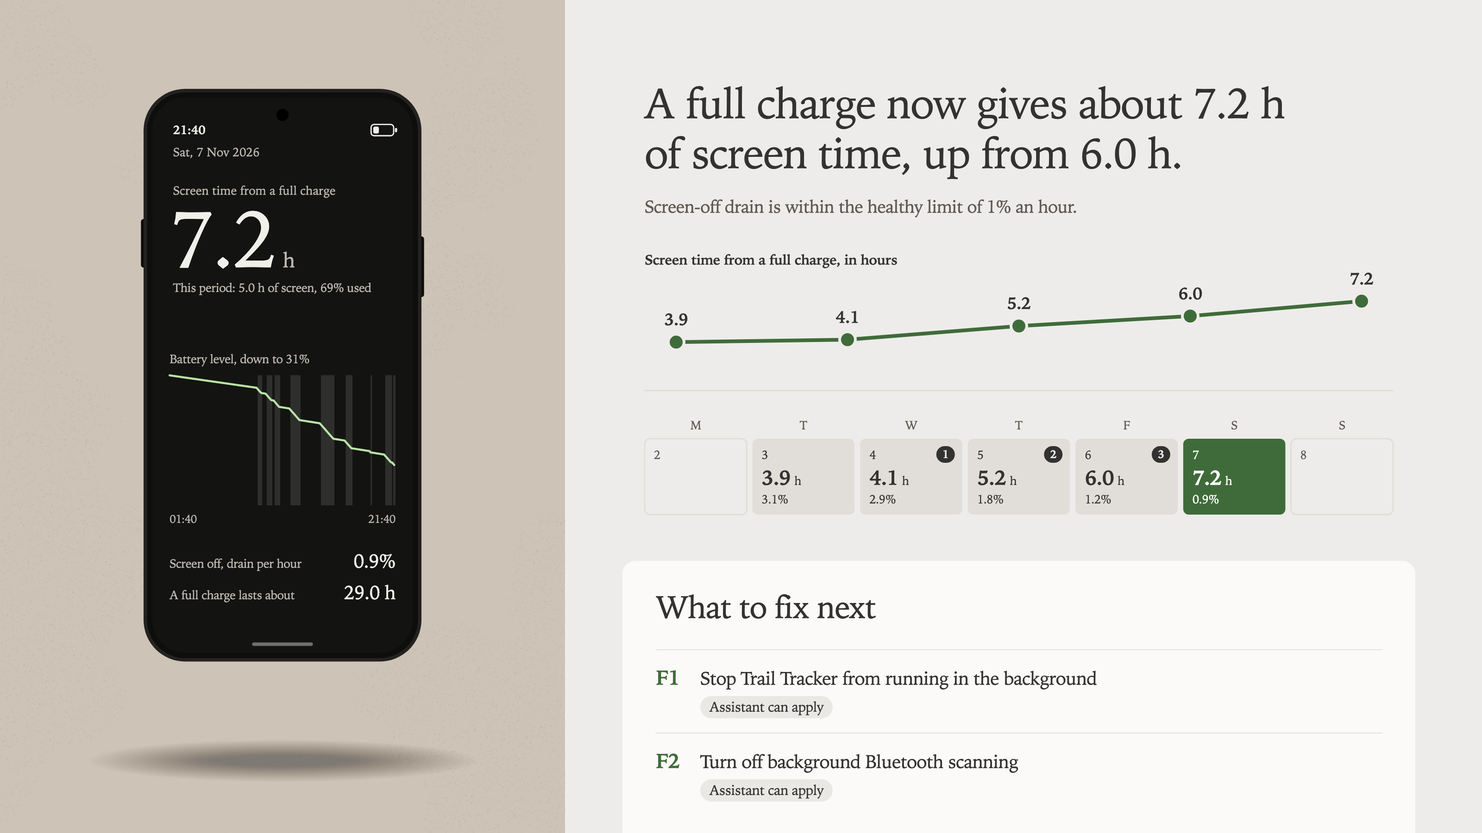
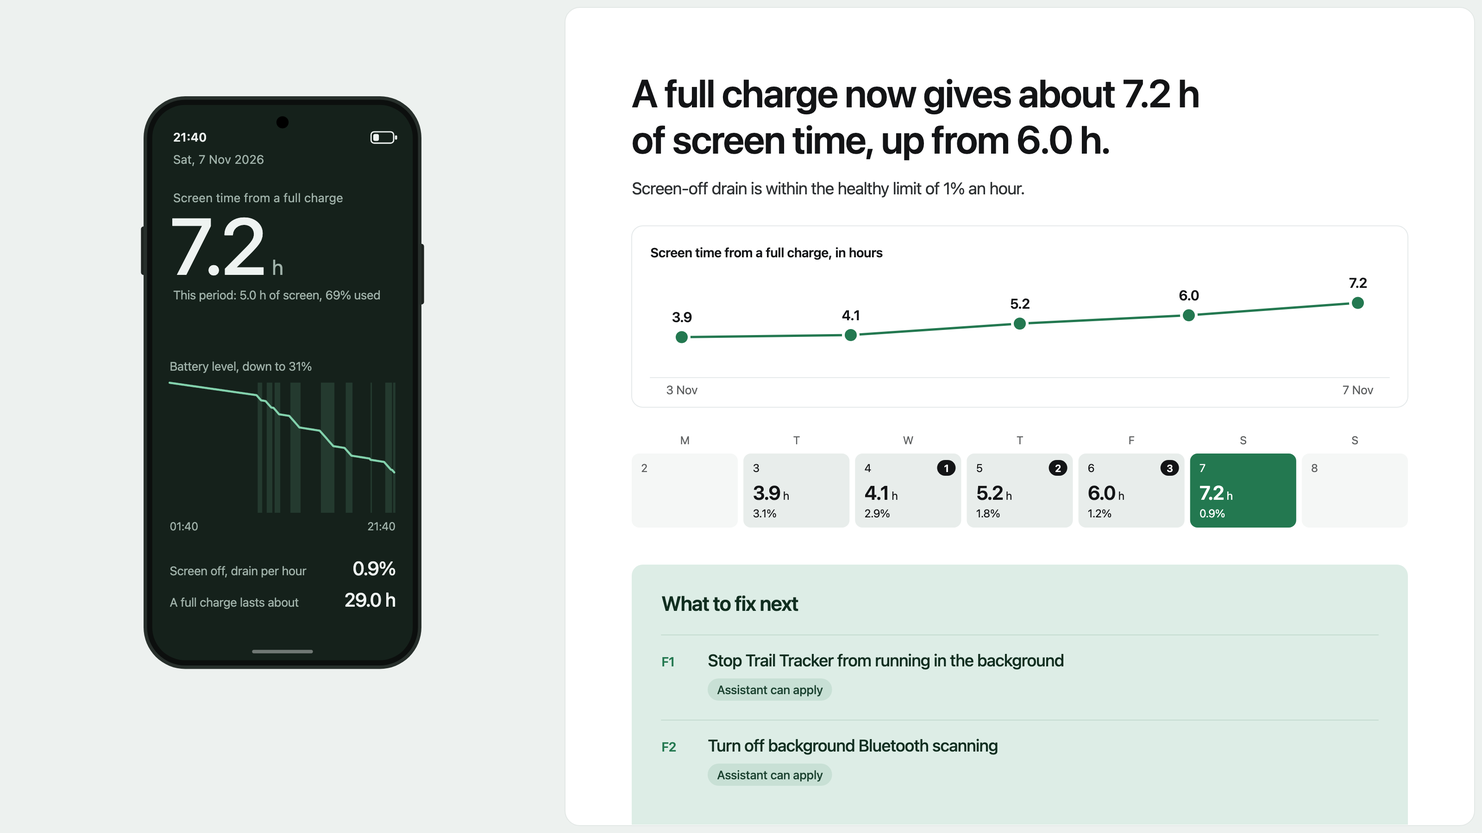
Redesign the report: framed sheet, green accent, dark mode
The phone sits on a tinted frame and the report on a white sheet beside it.
Green is the one data colour; What to fix next is a pale green panel; the
details are split into cards. Dark mode follows the system setting. The phone
drawing takes its colours from the stylesheet. The README image is redrawn to
match.

diff --git a/battery-doctor/assets/report-template.html b/battery-doctor/assets/report-template.html
@@ -6,142 +6,195 @@
 <meta name="color-scheme" content="light dark">
 <title>Battery report</title>
 <style>
+/* the phone sits in a tinted frame, the report on a sheet inset beside it; light and dark */
 :root {
-  --bg: #eeecea; --field: #cdc3b6; --ink: #333231; --muted: #5e5a56; --soft: #e1ded9;
-  --accent: #3f6b3a; --accent-ink: #ffffff; --warn: #8a4b12; --panel: #fbfaf8;
-  --font: "Iowan Old Style", "Palatino Linotype", Palatino, "Book Antiqua", Georgia, serif;
-  --t1: clamp(30px, 2rem + .9vw, 46px); --t2: 18px; --t3: 15px;
-  --pad: clamp(22px, 5vw, 72px);
+  --frame: #edf1ef; --stage: transparent; --stage-muted: #56605b; --sheet: #ffffff; --edge: #e3e8e6;
+  --split-pad: 8px; --split-gap: 0px; --sheet-r: 16px;
+  --ink: #131416; --ink-2: #2d3032; --muted: #5d5f60; --line: #eef0f1; --soft: #f4f6f8;
+  --data: #237850; --data-ink: #ffffff; --accent: #237850; --band: #e7f2ed; --warn: #c4242a; --focus: #237850;
+  --panel: #ddede6; --panel-ink: #112e20; --panel-muted: #415e50; --panel-rule: #c5dcd1; --panel-edge: #ddede6; --panel-id: #237850;
+  --chip: #c8e0d5; --chip-ink: #1a412f; --done: #237850; --done-ink: #ffffff;
+  --card: #ffffff; --card-edge: #e6eaeb; --day: #e8edeb; --day-empty: #f5f7f6; --r: 12px; --day-r: 8px;
+  --tip: #131416; --tip-ink: #ffffff;
+  --font: "IBM Plex Sans", system-ui, -apple-system, "Segoe UI", Roboto, sans-serif;
+  --t1: clamp(28px, 1.2rem + 1.4vw, 42px); --h2: 20px; --t2: 16px; --t3: 14px; --pad: clamp(24px, 4.5vw, 72px);
+  --ph-key: #1e2421; --ph-body: #272f2b; --ph-bezel: #0c0f0e; --ph-screen: #15211b; --ph-ink: #eef3f1; --ph-muted: #a0b2aa;
+  --ph-line: #83d2ad; --ph-span: rgba(131,210,173,.14); --ph-bar: rgba(255,255,255,.4); --ph-cam: #000;
 }
 @media (prefers-color-scheme: dark) {
-  :root { --bg: #1b1a19; --field: #2b2926; --ink: #ecebe9; --muted: #b0aca6; --soft: #2a2927; --accent: #9fcb92; --accent-ink: #1b1a19; --warn: #e5b25c; --panel: #262523; }
+  :root {
+    --frame: #0a0e0f; --stage-muted: #9aa5a3; --sheet: #111618; --edge: #1f2629;
+    --ink: #eef2f1; --ink-2: #c9d1cf; --muted: #9aa5a3; --line: #1f2629; --soft: #182022;
+    --data: #68cd9e; --data-ink: #081911; --accent: #68cd9e; --band: #153727; --warn: #ff7a7f; --focus: #68cd9e;
+    --panel: #28322d; --panel-ink: #f4f7f7; --panel-muted: #b5c0bb; --panel-rule: #37433d; --panel-edge: #28322d; --panel-id: #86d9b2;
+    --chip: #37443e; --chip-ink: #e9efec; --done: #68cd9e; --done-ink: #081911;
+    --card: #161d20; --card-edge: #222b2e; --day: #1c2629; --day-empty: #141b1d;
+    --tip: #eef2f1; --tip-ink: #111618;
+    --ph-body: #2c3a33; --ph-key: #232f29; --ph-screen: #0b130f;
+  }
 }
+.read { border: 1px solid var(--edge); }
+.focus { border: 1px solid var(--panel-edge); }
+.tr { border: 1px solid var(--card-edge); }
+.fix .id { color: var(--panel-id); }
+.focus summary:hover { color: var(--panel-ink); }
+.focus :focus-visible { outline-color: var(--panel-ink); }
+
+/* details as cards: two wide cards, then pairs */
+.more-in { grid-template-columns: repeat(2, minmax(0, 1fr)); gap: 16px; align-items: stretch; }
+.more-in > section { background: var(--card); border: 1px solid var(--card-edge); border-radius: var(--r); padding: 20px 20px 12px; min-width: 0; }
+.more-in > section:nth-child(-n+2), .more-in > section:last-child:nth-child(odd) { grid-column: 1 / -1; }
+.more-in > section > h3 { margin-bottom: 10px; }
+.more-in .rows li:first-child { border-top: 0; }
+.more-in .rows li { font-size: 15px; }
+@media (max-width: 700px) {
+  .more-in { grid-template-columns: minmax(0, 1fr); }
+}
+
+/* shared structure; every value comes from the variant's tokens */
 * { box-sizing: border-box; }
-html { -webkit-text-size-adjust: 100%; }
-body { margin: 0; background: var(--bg); color: var(--ink); font: 400 var(--t2)/1.6 var(--font); font-variant-numeric: tabular-nums; overflow-x: hidden; }
-h1, h2, p, ul, ol, dl, dd { margin: 0; padding: 0; }
+html { -webkit-text-size-adjust: 100%; background: var(--frame); }
+body { margin: 0; background: var(--frame); color: var(--ink); font: 400 var(--t2)/1.55 var(--font); font-variant-numeric: tabular-nums; overflow-x: hidden; }
+h1, h2, h3, p, ul, ol, dl, dd { margin: 0; padding: 0; }
 ul, ol { list-style: none; }
 button { font: inherit; color: inherit; background: none; border: 0; padding: 0; cursor: pointer; text-align: inherit; }
-:focus-visible { outline: 3px solid var(--accent); outline-offset: 3px; }
+:focus-visible { outline: 2px solid var(--focus, var(--ink)); outline-offset: 3px; border-radius: 4px; }
 small, .small { font-size: var(--t3); }
 .muted { color: var(--muted); }
 
-.split { display: grid; grid-template-columns: minmax(0, 5fr) minmax(0, 6fr); }
-.stage { background: var(--field); min-width: 0; }
-.stage-in { position: sticky; top: 0; height: 100svh; min-height: 560px; max-height: 960px; display: flex; flex-direction: column; align-items: center; justify-content: center; gap: 18px; padding: 24px 16px; }
-.phone { height: min(calc(100svh - 110px), 760px); min-height: 480px; width: auto; max-width: 100%; display: block; overflow: visible; }
-.phone-name { font-size: var(--t3); text-align: center; }
-.read { padding: 0 var(--pad); min-width: 0; }
-.read-in { max-width: 600px; }
-.hero { padding: clamp(56px, 12svh, 120px) 0 0; }
-h1 { font-weight: 500; font-size: var(--t1); line-height: 1.12; letter-spacing: -.02em; max-width: 14em; }
-.line { margin-top: 28px; color: var(--muted); max-width: 30em; }
-.notice { margin-top: 20px; color: var(--warn); }
-.sec { margin-top: clamp(56px, 7vw, 96px); }
-h2 { font-weight: 500; font-size: var(--t1); line-height: 1.12; letter-spacing: -.02em; }
-.lead { margin-top: 16px; }
+/* the split */
+.split { display: grid; grid-template-columns: minmax(340px, 5fr) minmax(0, 7fr); min-height: 100svh; gap: var(--split-gap, 0); padding: var(--split-pad, 0); }
+.stage { background: var(--stage); min-width: 0; border-radius: var(--stage-r, 0); }
+.stage-in { position: sticky; top: var(--split-pad, 0px); height: calc(100svh - 2 * var(--split-pad, 0px)); min-height: 560px; max-height: 980px; display: flex; flex-direction: column; align-items: center; justify-content: center; gap: 20px; padding: 32px 24px; }
+.phone { height: min(calc(100svh - 150px), 720px); min-height: 460px; width: auto; max-width: 100%; display: block; overflow: visible; }
+.phone-name { font-size: var(--t3); color: var(--stage-muted, var(--muted)); text-align: center; }
+.read { background: var(--sheet); min-width: 0; padding: 0 var(--pad); border-radius: var(--sheet-r, 0); box-shadow: var(--sheet-edge, none); }
+.read-in { max-width: 760px; margin: 0 auto 0 0; }
 
-/* calendar */
-.tl { margin-top: 28px; position: relative; }
-.tr { margin-bottom: 32px; }
+/* the answer */
+.hero { padding: clamp(48px, 9svh, 96px) 0 0; }
+h1 { font-weight: var(--h1-w, 600); font-size: var(--t1); line-height: 1.08; letter-spacing: var(--h1-track, -.025em); max-width: none; text-wrap: pretty; }
+.line { margin-top: 20px; color: var(--ink-2, var(--muted)); max-width: 36em; }
+.notice { margin-top: 16px; color: var(--warn); font-size: var(--t3); }
+.sec { margin-top: clamp(56px, 7vw, 88px); }
+h2 { font-weight: 600; font-size: var(--h2); line-height: 1.25; letter-spacing: -.01em; }
+.lead { margin-top: 12px; color: var(--ink-2, var(--ink)); }
+
+/* fixes */
+.focus { background: var(--panel); color: var(--panel-ink, var(--ink)); border-radius: var(--r); padding: clamp(24px, 3.4vw, 40px); }
+.focus .lead { color: var(--panel-muted, var(--muted)); }
+.fixlist { margin-top: 20px; display: grid; }
+.fix { display: grid; grid-template-columns: 40px minmax(0, 1fr); gap: 4px 12px; padding: 18px 0; border-top: 1px solid var(--panel-rule, var(--line)); }
+.fix .id { font: 600 var(--t3)/1.9 var(--font-num, var(--font)); color: var(--panel-muted, var(--muted)); }
+.fix .t { font-weight: 500; font-size: calc(var(--t2) + 2px); line-height: 1.4; overflow-wrap: anywhere; }
+.fix .cost { grid-column: 2; font-size: var(--t3); color: var(--panel-muted, var(--muted)); }
+.state { display: table; margin: 8px 0 2px; font-size: 13px; font-weight: 500; line-height: 24px; padding: 0 10px; border-radius: var(--pill-r, 999px); background: var(--chip); color: var(--chip-ink, inherit); white-space: nowrap; }
+.state.done { background: var(--done); color: var(--done-ink); }
+.fix details { grid-column: 2; font-size: var(--t3); }
+.fix summary, .more > summary { cursor: pointer; color: var(--panel-muted, var(--muted)); text-decoration: underline; text-underline-offset: 4px; }
+.fix summary:hover { color: var(--panel-ink, var(--ink)); }
+.fix ol { list-style: decimal; padding-left: 20px; margin-top: 8px; display: grid; gap: 4px; }
+.empty { margin-top: 20px; color: var(--muted); }
+.also { margin-top: 24px; display: grid; gap: 12px; font-size: var(--t3); color: var(--panel-muted, var(--muted)); }
+.also b { display: block; font-weight: 600; color: var(--panel-ink, var(--ink)); }
+
+/* trend curves and calendar */
+.tl { margin-top: 24px; position: relative; }
+.tr { margin-bottom: 28px; padding: 20px 20px 8px; background: var(--card); border-radius: var(--r); box-shadow: var(--card-edge, none); }
 .tr svg { display: block; width: 100%; height: auto; overflow: visible; }
-.tr text { font-family: var(--font); fill: var(--muted); font-size: 15px; }
-.tr text.v { fill: var(--ink); font-size: 18px; font-weight: 600; }
-.tr text.z { fill: var(--accent); }
-.tr text.h { fill: var(--ink); font-weight: 600; }
+.tr text { font-family: var(--font); fill: var(--muted); font-size: 13px; }
+.tr text.v { fill: var(--ink); font: 600 15px var(--font-num, var(--font)); }
+.tr text.z { fill: var(--muted); }
+.tr text.h { fill: var(--ink); font-weight: 600; font-size: 14px; }
+.tr polyline { stroke: var(--data) !important; stroke-width: 2.5px !important; }
+.tr circle[fill="var(--accent)"] { fill: var(--data); }
+.tr circle[stroke="var(--accent)"] { stroke: var(--data); }
+.tr line[stroke="var(--accent)"] { stroke: var(--data); stroke-dasharray: 4 4; }
+.tr rect[fill="var(--soft)"] { fill: var(--band); }
 .cal + .cal { margin-top: 28px; }
 .cal-m { font-weight: 600; margin-bottom: 10px; }
 .cal-g { display: grid; grid-template-columns: repeat(7, minmax(0, 1fr)); gap: 4px; }
-.cal-g .wd { font-size: 13px; color: var(--muted); text-align: center; padding-bottom: 2px; }
-.day { position: relative; width: 100%; min-height: 78px; padding: 6px 8px; border-radius: 6px; display: flex; flex-direction: column; justify-content: space-between; font-size: 13px; line-height: 1.2; color: var(--muted); box-shadow: inset 0 0 0 1px var(--soft); }
-.day.has { background: var(--soft); color: var(--ink); }
-.day.ok { background: var(--accent); color: var(--accent-ink); }
-.day.rough { background: none; box-shadow: none; outline: 1.5px dashed var(--muted); outline-offset: -2px; color: var(--ink); }
-.day.cur { box-shadow: inset 0 0 0 3px var(--ink); }
-.day .dv { font-size: 20px; font-weight: 600; }
-.day .dv small { font-size: 13px; font-weight: 400; }
-.day .di { font-size: 13px; }
-.day .dm { position: absolute; top: 5px; right: 5px; font-size: 11px; font-weight: 600; line-height: 16px; padding: 0 5px; border-radius: 999px; background: var(--ink); color: var(--bg); }
-.day.ok .dm { background: var(--accent-ink); color: var(--accent); }
-.tip { position: absolute; z-index: 3; pointer-events: none; background: var(--ink); color: var(--bg); font-size: var(--t3); line-height: 1.35; padding: 12px 14px; border-radius: 8px; width: max-content; max-width: min(320px, 90vw); transform: translate(-50%, -100%); box-shadow: 0 8px 24px -8px rgba(0,0,0,.45); }
-.tip .tt { font-weight: 600; font-size: 16px; }
+.cal-g .wd { font-size: 12px; color: var(--muted); text-align: center; padding-bottom: 2px; }
+.day { position: relative; width: 100%; min-height: 76px; padding: 6px 8px; border-radius: var(--day-r, 6px); display: flex; flex-direction: column; justify-content: space-between; font-size: 12px; line-height: 1.2; color: var(--muted); background: var(--day-empty); transition: transform .12s ease; }
+.day.has { background: var(--day); color: var(--ink); }
+.day.has:hover { transform: translateY(-1px); }
+.day.ok { background: var(--data); color: var(--data-ink); }
+.day.rough { background: transparent; outline: 1.5px dashed var(--muted); outline-offset: -2px; color: var(--ink); }
+.day.cur { outline: 2px solid var(--ink); outline-offset: 2px; }
+.day .dv { font: 600 19px/1.1 var(--font-num, var(--font)); }
+.day .dv small { font-size: 12px; font-weight: 400; }
+.day .di { font-size: 12px; }
+.day .dm { position: absolute; top: 5px; right: 5px; font-size: 11px; font-weight: 600; line-height: 16px; padding: 0 5px; border-radius: 999px; background: var(--ink); color: var(--sheet); }
+.day.ok .dm { background: var(--data-ink); color: var(--data); }
+.tip { position: absolute; z-index: 3; pointer-events: none; background: var(--tip, var(--ink)); color: var(--tip-ink, var(--sheet)); font-size: 13px; line-height: 1.35; padding: 10px 12px; border-radius: 8px; width: max-content; max-width: min(320px, 90vw); transform: translate(-50%, -100%); box-shadow: 0 6px 20px -8px rgba(0,0,0,.4); }
+.tip .tt { font-weight: 600; font-size: 14px; }
 .tip .tt span { font-weight: 400; opacity: .7; margin-left: 8px; }
-.tip dl { margin-top: 8px; display: grid; grid-template-columns: auto auto; gap: 4px 20px; }
+.tip dl { margin-top: 6px; display: grid; grid-template-columns: auto auto; gap: 3px 20px; }
 .tip dt { opacity: .7; white-space: nowrap; }
-.tip dd { text-align: right; white-space: nowrap; font-weight: 600; font-variant-numeric: tabular-nums; }
-.tip .tn { margin-top: 8px; padding-top: 8px; border-top: 1px solid color-mix(in srgb, var(--bg) 25%, transparent); font-size: 13px; opacity: .85; }
+.tip dd { text-align: right; white-space: nowrap; font-weight: 600; }
+.tip .tn { margin-top: 6px; padding-top: 6px; border-top: 1px solid color-mix(in srgb, currentColor 20%, transparent); font-size: 12px; opacity: .85; }
 .tip .tn + .tn { margin-top: 2px; padding-top: 0; border-top: 0; }
 .tip[hidden] { display: none; }
-.notes { margin-top: 18px; display: grid; gap: 4px; font-size: var(--t3); color: var(--muted); }
+.notes { margin-top: 16px; display: grid; gap: 4px; font-size: var(--t3); color: var(--muted); }
 .notes b { font-weight: 600; color: var(--ink); margin-right: 8px; }
 
-/* fixes */
-.fixlist { margin-top: 28px; display: grid; gap: 22px; }
-.fix { display: grid; grid-template-columns: 34px minmax(0, 1fr); gap: 2px 12px; }
-.fix .id { font-weight: 600; }
-.fix .t { font-weight: 600; overflow-wrap: anywhere; }
-.fix .cost { grid-column: 2; font-size: var(--t3); color: var(--muted); }
-.state { display: inline-block; font-size: var(--t3); font-weight: 400; padding: 0 10px; margin-left: 10px; background: var(--soft); border-radius: 999px; white-space: nowrap; }
-.state.done { background: var(--accent); color: var(--accent-ink); }
-.fix details { grid-column: 2; font-size: var(--t3); }
-.fix summary, .more > summary { cursor: pointer; color: var(--muted); text-decoration: underline; text-underline-offset: 4px; }
-.fix ol { list-style: decimal; padding-left: 20px; margin-top: 6px; }
-.empty { margin-top: 24px; color: var(--muted); }
-/* the fix section is the one block that asks the reader to act: it takes the phone's dark screen */
-.focus { background: var(--panel); color: var(--ink); border-radius: 14px; padding: clamp(28px, 4vw, 48px); margin-left: calc(-1 * clamp(0px, 2vw, 24px)); margin-right: calc(-1 * clamp(0px, 2vw, 24px)); }
-.focus .lead { color: var(--muted); }
-.also { margin-top: 24px; display: grid; gap: 12px; font-size: var(--t3); color: var(--muted); }
-.also b { display: block; font-weight: 600; color: var(--ink); }
-.focus .fixlist { gap: 0; margin-top: 20px; }
-.focus .fix { padding: 20px 0; border-top: 1px solid color-mix(in srgb, var(--ink) 12%, transparent); grid-template-columns: 44px minmax(0, 1fr); }
-.focus .fix .id { color: var(--accent); font-size: 22px; line-height: 1.3; }
-.focus .fix .t { font-size: 20px; line-height: 1.35; font-weight: 500; }
-.focus .fix .cost, .focus .fix summary, .focus .empty { color: var(--muted); }
-.focus .state { display: table; margin: 8px 0 4px; background: color-mix(in srgb, var(--ink) 9%, transparent); color: var(--ink); }
-.focus .state.done { background: var(--accent); color: var(--accent-ink); }
-
 /* details */
-.more { margin-top: clamp(64px, 8vw, 110px); margin-bottom: 90px; }
+.more { margin-top: clamp(56px, 7vw, 88px); margin-bottom: 80px; }
+.more > summary { font-size: var(--h2); font-weight: 600; color: var(--ink); text-decoration: none; list-style: none; display: flex; align-items: center; gap: 10px; }
+.more > summary::-webkit-details-marker { display: none; }
+.more > summary::after { content: ""; width: 8px; height: 8px; border-right: 2px solid var(--muted); border-bottom: 2px solid var(--muted); transform: rotate(45deg) translate(-2px, -2px); transition: transform .15s ease; }
+.more[open] > summary::after { transform: rotate(225deg) translate(-2px, -2px); }
 .showall { margin-top: 10px; color: var(--muted); font-size: var(--t3); text-decoration: underline; text-underline-offset: 4px; }
-.more > summary { font-size: var(--t2); }
-.more-in { margin-top: 40px; display: grid; gap: 64px; }
-.more h3 { font: 600 var(--t2)/1.3 var(--font); margin: 0 0 12px; }
-.more .sub { color: var(--muted); font-size: var(--t3); margin-bottom: 12px; }
-.rows li { display: grid; grid-template-columns: minmax(0, 1fr) auto; gap: 2px 16px; padding: 5px 0; }
+.showall:hover { color: var(--ink); }
+.more-in { margin-top: 24px; display: grid; gap: 40px; }
+.more h3 { font: 600 var(--t2)/1.3 var(--font); margin: 0 0 8px; }
+.more .sub { color: var(--muted); font-size: var(--t3); margin-bottom: 10px; }
+.rows li { display: grid; grid-template-columns: minmax(0, 1fr) auto; gap: 2px 16px; padding: 9px 0; border-top: 1px solid var(--line); }
 .rows .n { overflow-wrap: anywhere; }
-.rows .f { white-space: nowrap; }
-.rows .f small { color: var(--muted); margin-left: 8px; }
+.rows .f { white-space: nowrap; text-align: right; font-family: var(--font-num, var(--font)); }
+.rows .f small { color: var(--muted); margin-left: 8px; font-family: var(--font); }
 .rows .gone { text-decoration: line-through; color: var(--muted); }
 .rows .sm { grid-column: 1 / -1; font-size: var(--t3); color: var(--muted); }
 .pick li { padding: 0; }
-.pick button, .pick .cur { display: grid; grid-template-columns: minmax(0, 1fr) auto auto; gap: 16px; width: 100%; padding: 8px 0; }
-.pick .cur { color: var(--accent); font-weight: 600; }
-.pick button:hover { text-decoration: underline; text-underline-offset: 4px; }
+.pick button, .pick .cur { display: grid; grid-template-columns: minmax(0, 1fr) auto auto; gap: 20px; width: 100%; padding: 9px 0; }
+.pick .cur { color: var(--ink); font-weight: 600; }
+.pick .cur > :first-child::before { content: ""; display: inline-block; width: 8px; height: 8px; border-radius: 50%; background: var(--data); margin-right: 8px; vertical-align: 1px; }
+.pick button { color: var(--muted); }
+.pick button:hover { color: var(--ink); }
 .lv { position: relative; }
 .lv svg { display: block; width: 100%; height: auto; }
-.lv text { font: 400 14px var(--font); fill: var(--muted); }
+.lv text { font: 400 12px var(--font); fill: var(--muted); }
+.lv polyline { stroke: var(--data); }
+.lv circle { fill: var(--data); }
 
-/* phone */
-.phone text { font-family: var(--font); fill: #f1efe9; }
-.phone .m { fill: #bdb9b0; }
-.phone .ser { font-weight: 500; letter-spacing: -.02em; }
+/* the phone */
+.phone text { font-family: var(--font); fill: var(--ph-ink); }
+.phone .m { fill: var(--ph-muted); }
+.phone .ser { font-family: var(--font-num, var(--font)); font-weight: var(--ph-big-w, 500); letter-spacing: -.03em; }
+
 @media (prefers-reduced-motion: no-preference) {
-  .read-in > .hero > * { animation: rise .8s cubic-bezier(.2,.7,.2,1); }
-  @keyframes rise { from { transform: translateY(14px); } }
+  .read-in > .hero > * { animation: rise .7s cubic-bezier(.2,.7,.2,1) both; }
+  .read-in > .hero > :nth-child(2) { animation-delay: .07s; }
+  .stage .phone { animation: fade .8s ease both; }
+  @keyframes rise { from { opacity: 0; transform: translateY(14px); } }
+  @keyframes fade { from { opacity: 0; transform: translateY(8px); } }
 }
 @media (max-width: 900px) {
-  .split { grid-template-columns: minmax(0, 1fr); }
+  .split { grid-template-columns: minmax(0, 1fr); padding: 0; gap: 0; }
+  .stage { border-radius: 0; }
   .stage-in { position: static; height: auto; min-height: 0; max-height: none; padding: 28px 16px 32px; }
-  .phone { height: auto; min-height: 0; width: min(240px, 70vw); }
-  .hero { padding: 40px 0 0; }
+  .phone { height: auto; min-height: 0; width: min(240px, 66vw); }
+  .read { border-radius: 0; padding: 0 16px; }
+  .hero { padding: 36px 0 0; }
 }
 @media (max-width: 560px) {
-  body { font-size: 17px; }
-  .day { min-height: 54px; padding: 5px; }
-  .day .dv { font-size: 16px; }
+  h1 { font-size: 22px; line-height: 1.2; }
+  .day { min-height: 54px; padding: 4px 5px; }
+  .day .dv { font-size: 15px; }
   .pick button, .pick .cur { grid-template-columns: auto auto; justify-content: space-between; gap: 0 16px; }
   .pick button > :first-child, .pick .cur > :first-child { grid-column: 1 / -1; }
 }
+
 </style>
 </head>
 <body>
@@ -216,18 +269,18 @@ function phone() {
   const svg = s('svg', { class: 'phone', viewBox: '-6 0 332 660', role: 'img', 'aria-label': `${maker(latest.device)} showing the checkup of ${dayTime(c.takenAt)}: battery at ${b.levelPct ?? 'unknown'}%, ${c.screenTime != null ? `about ${n1(c.screenTime)} h of screen time from a full charge, ` : ''}idle drain ${idle ? n1(idle.pctPerHour) + '% per hour' : 'not measured'}.` });
   const defs = s('defs', {}, svg);
   const cp = s('clipPath', { id: 'scr' }, defs); s('rect', { x: 10, y: 10, width: 300, height: 640, rx: 38 }, cp);
-  s('rect', { x: -3, y: 150, width: 6, height: 56, rx: 3, fill: '#0b0b0a' }, svg);
-  s('rect', { x: 317, y: 170, width: 6, height: 70, rx: 3, fill: '#0b0b0a' }, svg);
-  s('rect', { x: 0, y: 0, width: 320, height: 660, rx: 48, fill: '#232220' }, svg);
-  s('rect', { x: 4, y: 4, width: 312, height: 652, rx: 44, fill: '#0e0e0d' }, svg);
+  s('rect', { x: -3, y: 150, width: 6, height: 56, rx: 3, style: 'fill:var(--ph-key)' }, svg);
+  s('rect', { x: 317, y: 170, width: 6, height: 70, rx: 3, style: 'fill:var(--ph-key)' }, svg);
+  s('rect', { x: 0, y: 0, width: 320, height: 660, rx: 48, style: 'fill:var(--ph-body)' }, svg);
+  s('rect', { x: 4, y: 4, width: 312, height: 652, rx: 44, style: 'fill:var(--ph-bezel)' }, svg);
   const g = s('g', { 'clip-path': 'url(#scr)' }, svg);
-  s('rect', { x: 10, y: 10, width: 300, height: 640, fill: '#131312' }, g);
+  s('rect', { x: 10, y: 10, width: 300, height: 640, style: 'fill:var(--ph-screen)' }, g);
   s('text', { x: 34, y: 52, 'font-size': 14, 'font-weight': 600 }, g, hm(c.takenAt));
   s('text', { x: 34, y: 78, 'font-size': 14, class: 'm' }, g, longDay(c.takenAt));
   const lvl = b.levelPct != null ? Math.max(0, Math.min(100, b.levelPct)) : 0;
-  s('rect', { x: 262, y: 41, width: 26, height: 13, rx: 3.5, fill: 'none', stroke: '#f1efe9', 'stroke-width': 1.5 }, g);
-  s('rect', { x: 289.5, y: 45, width: 2.5, height: 5, rx: 1, fill: '#f1efe9' }, g);
-  if (b.levelPct != null) s('rect', { x: 264.5, y: 43.5, width: 21 * lvl / 100, height: 8, rx: 2, fill: '#f1efe9' }, g);
+  s('rect', { x: 262, y: 41, width: 26, height: 13, rx: 3.5, style: 'fill:none;stroke:var(--ph-ink);stroke-width:1.5' }, g);
+  s('rect', { x: 289.5, y: 45, width: 2.5, height: 5, rx: 1, style: 'fill:var(--ph-ink)' }, g);
+  if (b.levelPct != null) s('rect', { x: 264.5, y: 43.5, width: 21 * lvl / 100, height: 8, rx: 2, style: 'fill:var(--ph-ink)' }, g);
   const st = c.screenTime, w = c.window || {};
   s('text', { x: 34, y: 122, 'font-size': 14, class: 'm' }, g, st != null ? 'Screen time from a full charge' : 'Screen off, drain per hour');
   const big = s('text', { x: 30, y: 206, 'font-size': 92, class: 'ser' }, g, st != null ? n1(st) : idle ? n1(idle.pctPerHour) : '\u2013');
@@ -238,8 +291,8 @@ function phone() {
     s('text', { x: 30, y: 316, 'font-size': 14, class: 'm' }, g, `Battery level, down to ${lv[lv.length - 1][1]}%`);
     const clip = s('clipPath', { id: 'cc' }, defs); s('rect', { x: 30, y: 330, width: 260, height: 150 }, clip);
     const cg = s('g', { 'clip-path': 'url(#cc)' }, g);
-    for (const sp of c.screenSpans || []) s('rect', { x: X(sp[0]), y: 330, width: Math.max(1.5, X(sp[1]) - X(sp[0])), height: 150, fill: 'rgba(255,255,255,.12)' }, cg);
-    s('polyline', { points: lv.map(p => `${X(p[0]).toFixed(1)},${Y(p[1]).toFixed(1)}`).join(' '), fill: 'none', stroke: '#b9e3a6', 'stroke-width': 2.4, 'stroke-linejoin': 'round' }, cg);
+    for (const sp of c.screenSpans || []) s('rect', { x: X(sp[0]), y: 330, width: Math.max(1.5, X(sp[1]) - X(sp[0])), height: 150, style: 'fill:var(--ph-span)' }, cg);
+    s('polyline', { points: lv.map(p => `${X(p[0]).toFixed(1)},${Y(p[1]).toFixed(1)}`).join(' '), fill: 'none', style: 'stroke:var(--ph-line)', 'stroke-width': 2.4, 'stroke-linejoin': 'round' }, cg);
     const clock = clockOf(c);
     s('text', { x: 30, y: 500, 'font-size': 13, class: 'm' }, g, clock(0));
     s('text', { x: 290, y: 500, 'font-size': 13, class: 'm', 'text-anchor': 'end' }, g, clock(end));
@@ -250,8 +303,8 @@ function phone() {
   }
   s('text', { x: 30, y: 588, 'font-size': 14, class: 'm' }, g, 'A full charge lasts about');
   s('text', { x: 290, y: 588, 'font-size': 22, 'text-anchor': 'end', class: 'ser' }, g, hpc(c) != null ? `${n1(hpc(c))} h` : '–');
-  s('rect', { x: 125, y: 638, width: 70, height: 4, rx: 2, fill: 'rgba(255,255,255,.4)' }, g);
-  s('circle', { cx: 160, cy: 30, r: 7, fill: '#000' }, svg);
+  s('rect', { x: 125, y: 638, width: 70, height: 4, rx: 2, style: 'fill:var(--ph-bar)' }, g);
+  s('circle', { cx: 160, cy: 30, r: 7, style: 'fill:var(--ph-cam)' }, svg);
   stage.replaceChildren(svg, h('p.phone-name', {}, [maker(latest.device), latest.device?.android ? `Android ${latest.device.android}` : ''].filter(Boolean).join(', ')));
 }
 
